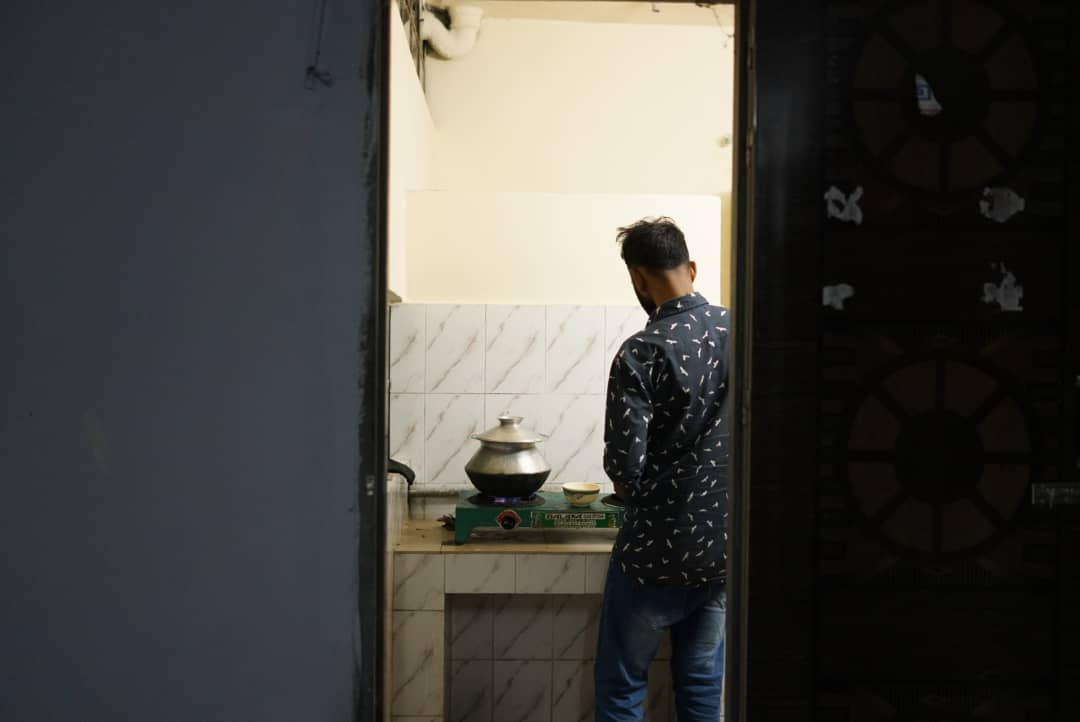
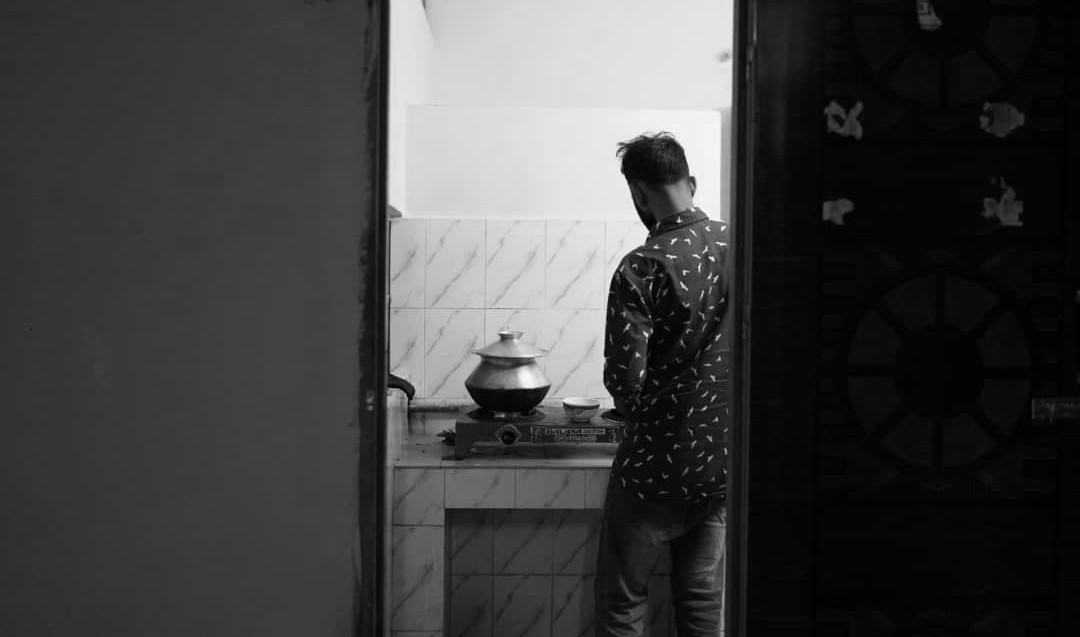
update v7, cooking story, kamrul b/w, proof-read

diff --git a/Random_writings/my-cooking-story.md b/Random_writings/my-cooking-story.md
@@ -1,8 +1,8 @@
 ---
+title: My Cooking Story!
 layout: post
-title: My Cooking Story
-description: How I view cooking and my influences 
-image: /Random_writings/images/kamrul.jpg
+description: How I view cooking and influences I've had
+image: "/Random_writings/images/kamrul.jpg"
 comments: false
 location: Munshiganj, Bangladesh
 date: 23-12-2022
@@ -10,17 +10,17 @@ date: 23-12-2022
 
 Cooking is fairly simple these days. The willingness to cook regularly is what we struggle with. And no one's cooking journey is interesting enough to read -- you decide to learn it, you put effort and watch some videos, you experiment and fail, and after a few days, voila, you can cook. My cooking story is the same too except maybe how I view cooking and the influences I have had along the way are worth writing about. 
 
-Cooking, I never liked it much. It wasn't intellectually challenging and there was no novelty, same process on repeat, every goddamn day. But soon, Kamrul Islam, a friend, a football and uni-mate from Sylhet, changed my perspective on cooking forever.
+I never liked cooking much. It wasn't intellectually challenging and there was no novelty, same process on repeat, every goddamn day. But, Kamrul Islam, a friend, a football and uni-mate from Sylhet, changed my perspective on cooking forever!
  
-Kamrul helped me when I started to conserve more in my sophomore days. My family was struggling to provide me with 4k bdt per month, as always, so I started to cut expenses. In that process, Kamrul started to share his dorm room and bed with me, which he got six months earlier than us through his premium network. He loved the kitchen our dormitory offered!
+Kamrul helped me when I started to conserve more in my sophomore days. My family was struggling to provide me with 4k bdt per month, as always, so I started to cut expenses. In that process, he started to share his dorm room and bed with me, which he got six months earlier than us through his premium network. He loved the kitchen our dormitory offered!
 
 <img src="/Random_writings/images/kamrul.jpg" alt="Kamrul Islam Kamran">
-<center> <small>Pic: Kamrul Cooking!</small> </center> <br>
+<center> <small>Pic: Kamrul Cooking! March-April, 2022</small> </center> <br>
 
-He'd often cook, but it was his process that made me realize he wasn't just some ordinary guy cooking as a random activity of the day. He knew how many tablespoons of ghee and garlic were required for a beef recipe for 10 people and which ingredients to experiment with. He would chop his veggies slowly. He'd stir his makings with utmost care. He'd taste the salt of his recipe like a lovely grandmother. He'd serve us as if we were in a five-star restaurant. He'd enjoy every little compliment of his work like someone who just cooked for the first time for their family!
+He'd often cook, but it was his process that made me realize he wasn't just some ordinary guy cooking as a random activity of the day. He knew how many tablespoons of ghee and garlic mix were required for a beef recipe for 10 people, and which ingredients to experiment with. He would chop his veggies slowly. He'd stir his makings with utmost care. He'd taste the salt of his recipe like a lovely grandmother. He'd serve us as if we were in a five-star restaurant. He'd enjoy every little compliment of his work like someone who just cooked for the first time for their family!
 
 <img src="/Random_writings/images/sabbir.jpg" alt="Khandoker Sabbir">
-<center> <small>Pic: Sabbir Reading!</small> </center> <br>
+<center> <small>Pic: Sabbir Reading! March-April, 2022</small> </center> <br>
 
 Living with him, gradually, I started cooking too. A big Sylheti influence in my cooking first up. We were together for six months until I had my own dorm access. We'd become roommates again in the final year, along with another cook, Khandokar Sabbir, a sportsman from Kushtia, a guy who'd cook with the lowest of resources, with a completely opposite cooking style of Kamrul. Kamrul, me and Sabbir would announce our dorm room as a restaurant to our neighbours where every day would feel like a new festival with new recipes, pithas and whatnot. People would come and sponsor and we'd just cook, we'd become freelance cooks at some point. I soon would live the best six months of my life, food-wise.
 
